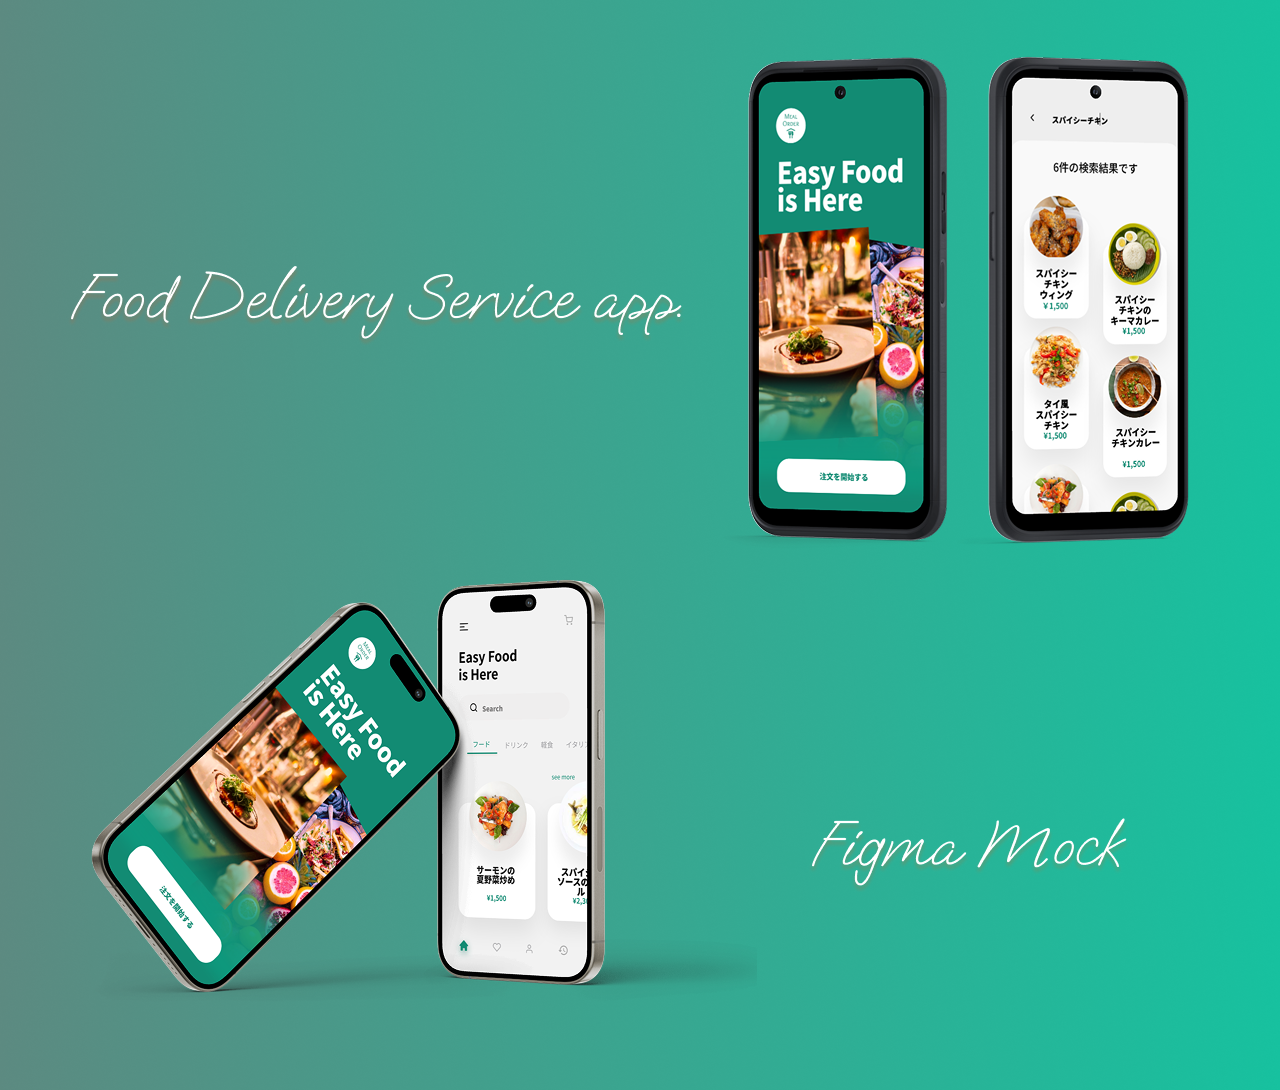
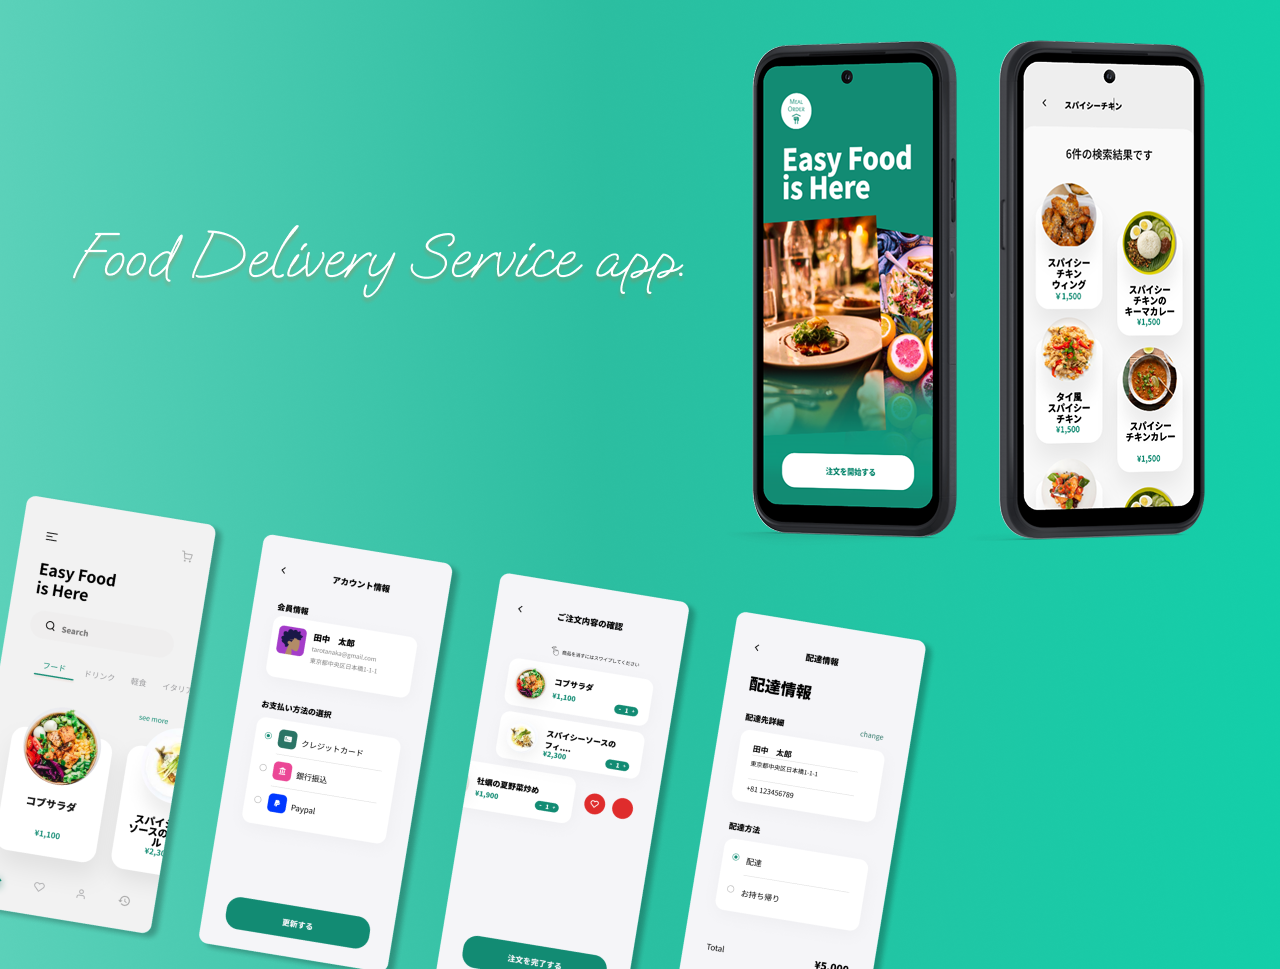
food deli

diff --git a/index.html b/index.html
@@ -396,7 +396,7 @@
                     <input id="block-13" type="checkbox" class="gallery-toggle"> 
                     <label class="Label" for="block-13"><li class="gallery-text"><span >フードデリバリーアプリデザイン</span></li></label>
                     <div class="brand-content">
-                        <img src="branding/food_app.png" width="100%">
+                        <!-- <img src="branding/food_app.png" width="100%"> -->
                         <img src="branding/food_delivery_app.png" width="100%">
                         <div class="brand-description">
                            
